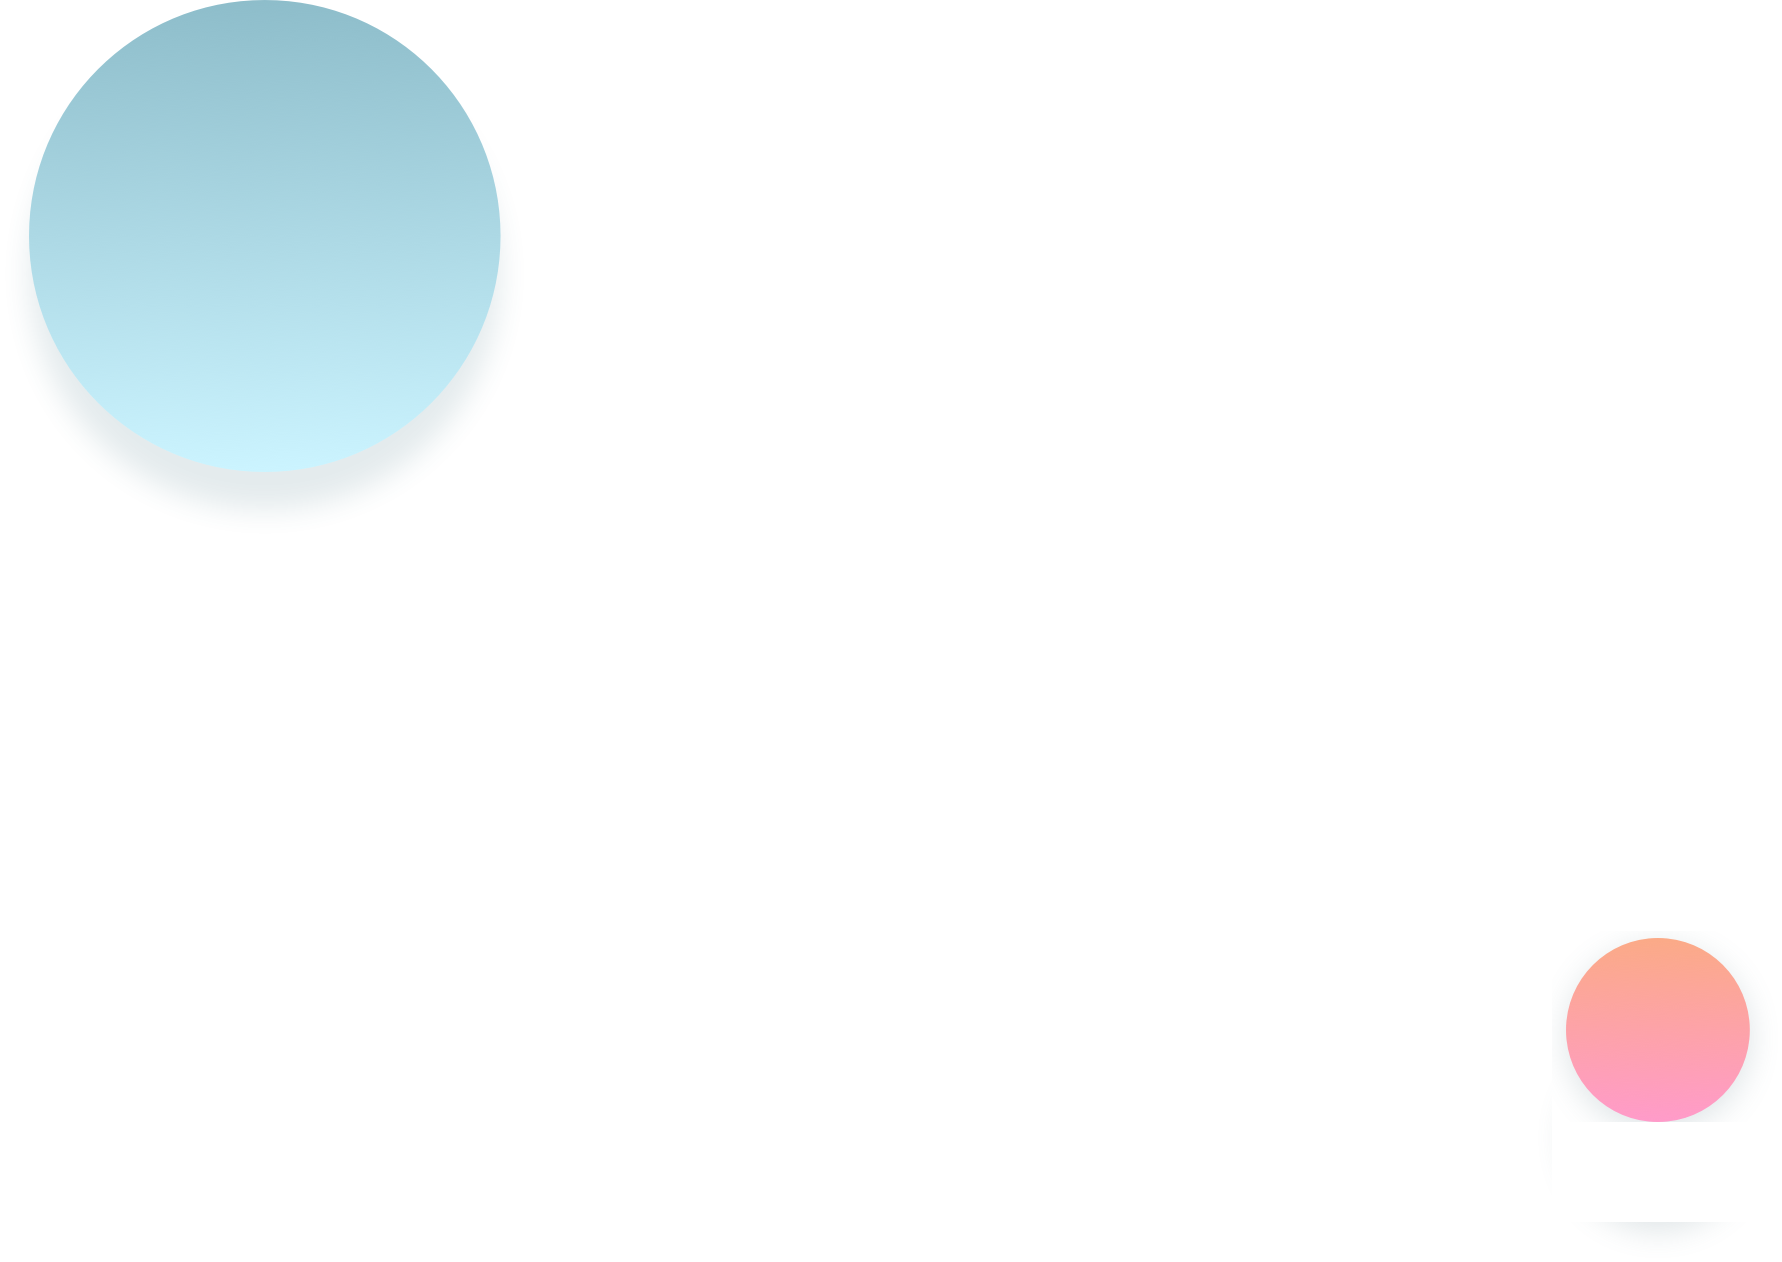
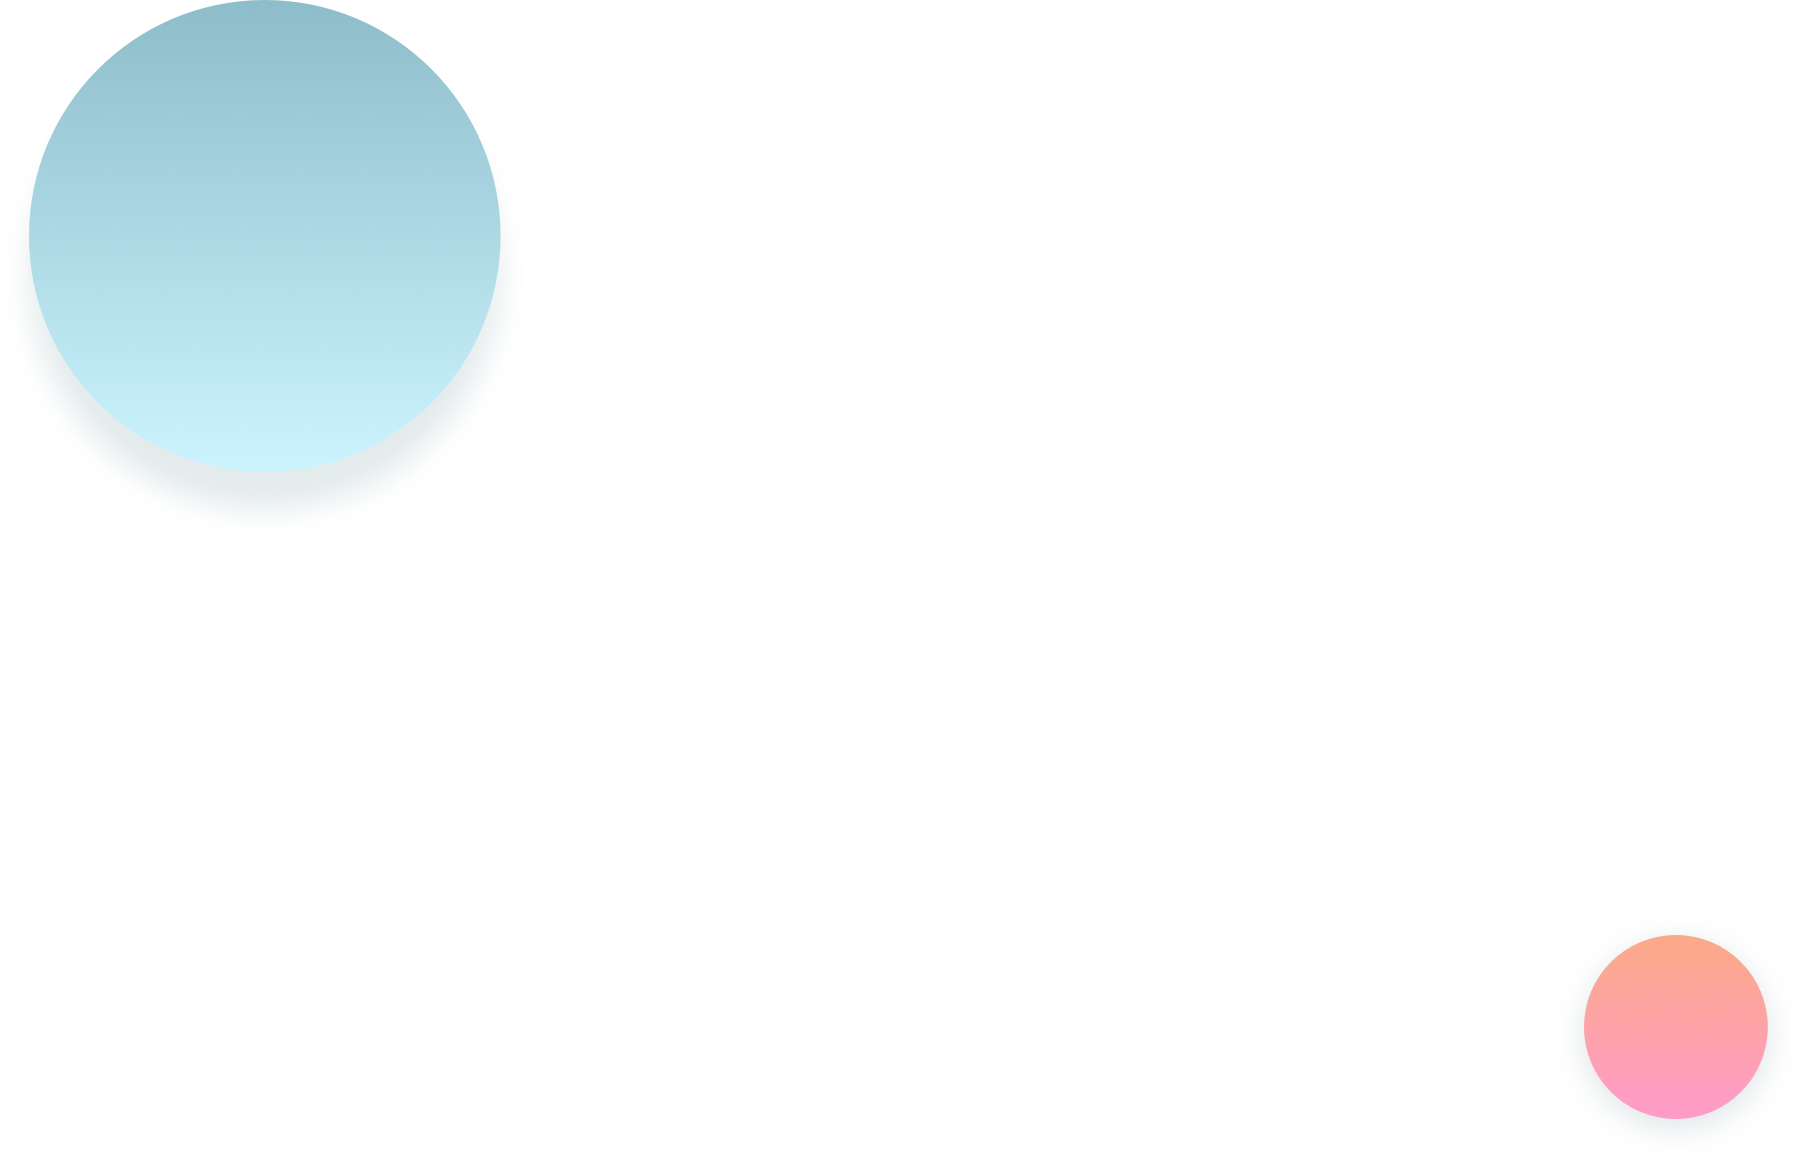
修改

diff --git a/resources/css/hlo.css b/resources/css/hlo.css
@@ -1,7 +1,7 @@
 /*以下为公共样式*/
 body{
     overflow-x: hidden;
-    background: url("../images/bg_no.png") repeat-y;
+    background: url("../images/bg_no.png") no-repeat;
 }
 #bg{
     margin: 0 auto;
@@ -11,7 +11,11 @@ body{
     padding-top: 74px;
     background: url("../images/bg_gq.png") no-repeat;
     /*background-size: 1920px auto;*/
-
+     zoom:0.88;
+/*      transform: scale(0.85,0.85); */
+/*      transform:translate(50px); */
+/*      -ms-transform:scale(0.85,0.85); */
+     
     background-position:-100px -200px;
 }
 #box{
@@ -248,8 +252,8 @@ input::-webkit-input-placeholder{
 #login .loginPage{
     box-sizing: border-box;
     width: 1200px;
-    /*height: 850px*/;
-    padding: 140px 75px 100px 112px;
+    height: 832px;
+    padding: 100px 75px 100px 112px;
 }
 #login .pull-left>img{
     /*margin-top: 30px;*/
